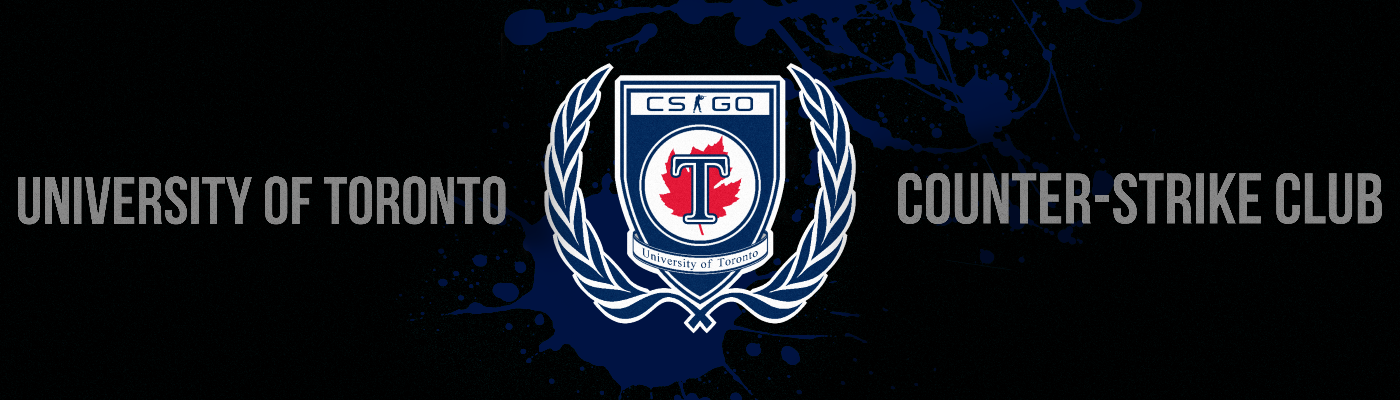
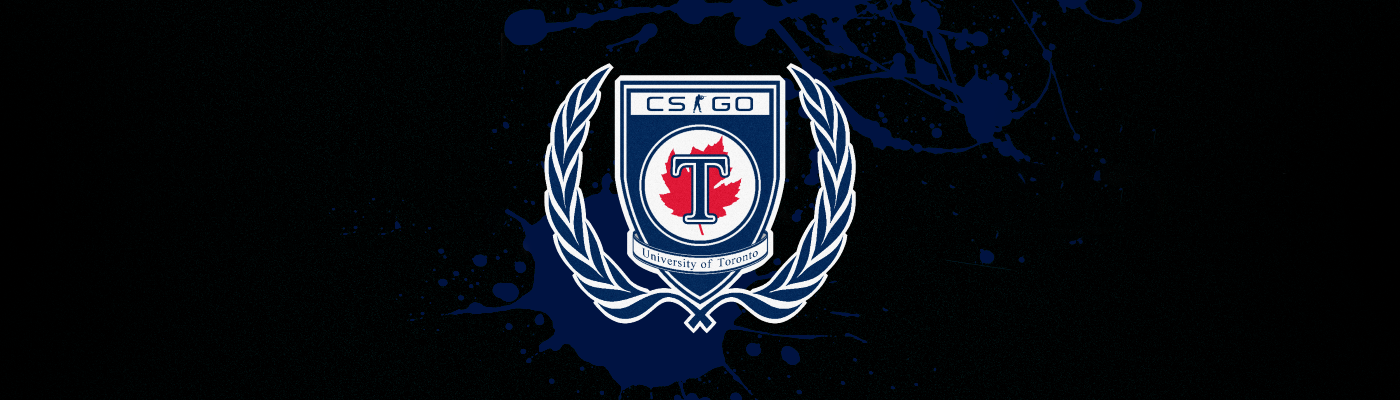
changed nav and a bunch of stuff

Changed region(s): [[0.6143, 0.33, 1.0, 0.6], [0.0, 0.36, 0.3993, 0.6], [0.6757, 0.63, 0.7371, 0.66]]

diff --git a/index.html b/index.html
@@ -6,8 +6,9 @@
 
 		<!--CSS/Style-->
 		<link rel="stylesheet" href="https://maxcdn.bootstrapcdn.com/bootstrap/3.3.7/css/bootstrap.min.css" integrity="sha384-BVYiiSIFeK1dGmJRAkycuHAHRg32OmUcww7on3RYdg4Va+PmSTsz/K68vbdEjh4u" crossorigin="anonymous">
-		<link rel="stylesheet" href="style.css?version=1.4" type="text/css" />
-		<link href="https://fonts.googleapis.com/css?family=Viga" rel="stylesheet">
+		<link rel="stylesheet" href="style.css?version=1.5" type="text/css" />
+		<link href="https://fonts.googleapis.com/css?family=Roboto+Condensed" rel="stylesheet">
+
 
 		<!--Javascript-->
 		<script src="https://ajax.googleapis.com/ajax/libs/jquery/3.1.1/jquery.min.js"></script>
@@ -23,7 +24,7 @@
 	<body>
 		<div class="jumbotron">
 			<div id="header" class="container">
-				<h1 class="titles">utcsc</h1>
+				<h1 class="titles">UTCSC</h1>
 				<p class="titles">University of Toronto Counter-Strike Club</p>
 			</div>
 		</div>
@@ -31,20 +32,20 @@
 			<div class="container">
 				<div class="navbar-header">
 				<a class="navbar-brand" target="_blank" href="http://uoftesports.me/">
-       					<p>UofT eSports</p>
+       					<p>//UOFT ESPORTS//</p>
      				</a>
 				</div>
 				<ul id="nav" class="nav navbar-nav">
 					<li id="annc" class="active"><a href="#">Announcements</a></li>
 					<li id="int" class="dropdown">
-						<a href="#" class="dropdown-toggle" data-toggle="dropdown" role="button" aria-haspopup="true" aria-expanded="false">Intramurals <span class="caret"></span></a>
+						<a href="#" class="dropdown-toggle" data-toggle="dropdown" role="button" aria-haspopup="true" aria-expanded="false">Intramurals<span class="caret"></span></a>
 						<ul class="dropdown-menu">
-							<li><a href="#teams" id="teams">Teams</a></li>
-							<li><a href="#sched" id="sched">Schedule</a></li>
-							<li><a href="#history" id="history">Match History</a></li>
-							<li><a href="#standings" id="standings">Standings</a></li>
-							<li><a href="#stats" id="stats">Stats</a></li>
-							<li><a id="demos" target="_blank" href="https://drive.google.com/drive/folders/0B2pdVlyB-hHxaTljOEpaU1RoRFU">Demos</a></li>
+							<li><a href="#teams" id="teams">teams</a></li>
+							<li><a href="#sched" id="sched">schedule</a></li>
+							<li><a href="#history" id="history">match history</a></li>
+							<li><a href="#standings" id="standings">standings</a></li>
+							<li><a href="#stats" id="stats">stats</a></li>
+							<li><a id="demos" target="_blank" href="https://drive.google.com/drive/folders/0B2pdVlyB-hHxaTljOEpaU1RoRFU">demos</a></li>
 						</ul>
 					</li>
 					<li id="csl" ><a href="#csl">CSL</a></li>
@@ -94,8 +95,11 @@
 
 
 		<div id="csle" class="container block">
-			<a target="_blank" href="https://www.cstarleague.com/csgo/teams/2468"><h1>CSL 2017</h1></a>
-			<p>UTCSC's CSL Team is composed of our school's best players, competing in CSL's Spring 2017 season for a chance to win $10,000! Click the title to check out their current standings!</p>
+			<h1>CSL 2017</h1>
+			<p>UTCSC's CSL Team is composed of our school's best players, competing in CSL's Spring 2017 season for a chance to win $10,000!</p>
+			<div class="btn-group" role="group">
+				<a type="button" class="btn btn-default" href="https://www.cstarleague.com/csgo/teams/2468" target="_blank">Collegiate Starleague</a>
+			</div>
 			<div class="profiles">
 				<div class="person">
 					<a><img class="pic" src="https://scontent.fyto1-1.fna.fbcdn.net/v/t1.0-9/16453_767808046590150_4940442220282036200_n.jpg?oh=05800ab5e9631bfe380011bcd5c90fbf&oe=59002B48"/></a>

diff --git a/style.css b/style.css
@@ -23,23 +23,64 @@ body{
 	border-bottom-right-radius:10px;
 }
 
-.titles{
-	opacity:0;
+#nav li a .caret{
+	border-top:4px solid white;
+}
+/* navbar */
+.navbar-default {
+    background-color: rgba(255,255,255,0.3);
+    border-color: rgba(255,255,255,0.1);
+}
+/* title */
+.navbar-default .navbar-brand {
+    color: white;
+}
+.navbar-default .navbar-brand:hover,
+.navbar-default .navbar-brand:focus {
+    color: #ddd;
+}
+/* link */
+.navbar-default .navbar-nav > li > a {
+    color: white;
+}
+.navbar-default .navbar-nav > li > a:hover,
+.navbar-default .navbar-nav > li > a:focus {
+    color: white;
+    background-color:rgba(255,255,255,0.1);
+}
+.navbar-default .navbar-nav > .active > a, 
+.navbar-default .navbar-nav > .active > a:hover, 
+.navbar-default .navbar-nav > .active > a:focus {
+    color: white;
+    background-color: rgba(255,255,255,0.3);
+}
+.navbar-default .navbar-nav > .open > a, 
+.navbar-default .navbar-nav > .open > a:hover, 
+.navbar-default .navbar-nav > .open > a:focus {
+    color: white;
+    background-color: rgba(255,255,255,0.2);
+}
+/* caret */
+.navbar-default .navbar-nav > .dropdown > a .caret {
+    border-top-color: #777;
+    border-bottom-color: #777;
 }
 
+h1, h2{
+	font-family: 'Roboto Condensed', sans-serif;
+}
 #nav{
+	font-size:15px;
 	color:white;
 }
-
-@media (max-width:1200px){
-	.titles{
-		opacity:1;
-	}
+#nav{
+	font-family: 'Roboto Condensed', sans-serif;
 }
-@media (max-width:1200px){
+
+@media (max-width:767px){
 	
-	#header{
-		background-color:rgba(0,0,0,0.8);
+	.jumbotron{
+		background:url(img/header_dark.png) no-repeat center center;
 	}
 }
 
@@ -125,6 +166,7 @@ h2 small{
 	height:250px;
 	border: solid 1px white;
 	object-fit:cover;
+	border-radius:12px;
 }
 
 .person{
@@ -140,11 +182,14 @@ h2 small{
 	margin-top:0;
 	margin-bottom:30px;
 }
-
+#midnav div a p{
+	font-family: 'Roboto Condensed', sans-serif;
+}
 .event{
 	padding:20px;
 	border-radius:20px;
 	margin-bottom:20px;
+	padding-top:7px;
 }
 
 #footer a, #footer p{
@@ -183,12 +228,17 @@ h2 small{
 	width:30px;
 	height:auto;
 	margin-right:3px;
+	transition:0.3s;
 }
 #discord{
 	width:40px;
 	height:auto;
 	margin-top:-3px;
 	margin-left:3px;
+	transition:0.3s;
+}
+#fb:hover, #discord:hover{
+	opacity:0.3;
 }
 #matchhistory{
 	color:white;
